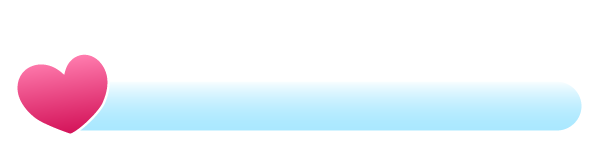
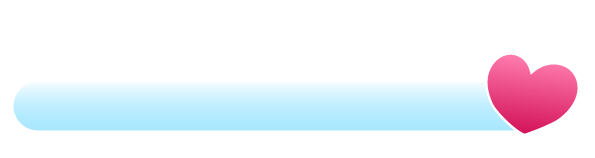
rendering boss bar

Changed region(s): [[0.8168, 0.3291, 0.9983, 0.8608], [0.0, 0.3291, 0.1815, 0.8608]]

diff --git a/scripts/classes/statusbar.class.js b/scripts/classes/statusbar.class.js
@@ -8,6 +8,16 @@ class Statusbar extends DrawableObject {
         './assets/imgs/4. Marcadores/green/Life/20_ copia 4.png',
         './assets/imgs/4. Marcadores/green/Life/0_ copia 3.png'
     ]
+    IMAGES_ENDBOSS = [
+
+        './assets/imgs/4. Marcadores/orange/100_  copia.png',
+        './assets/imgs/4. Marcadores/orange/80_  copia.png',
+        './assets/imgs/4. Marcadores/orange/60_  copia.png',
+        './assets/imgs/4. Marcadores/orange/40_  copia.png',
+        './assets/imgs/4. Marcadores/orange/20_  copia.png',
+        './assets/imgs/4. Marcadores/orange/0_  copia.png'
+
+    ]
     percentage = 100
 
     constructor(x, y, width, height) {
@@ -15,7 +25,9 @@ class Statusbar extends DrawableObject {
         // this.loadImage('./assets/imgs/4. Marcadores/green/100_ copia 5.png')
         // this.loadImage('./assets/imgs/4. Marcadores/green/100_ copia 6.png')
         this.loadImages(this.IMAGES_HP)
+        this.loadImages(this.IMAGES_ENDBOSS)
         this.setPercentage(100)
+        this.setBossPercentage(100)
         this.x = x;
         this.y = y;
         this.width = width;
@@ -26,6 +38,13 @@ class Statusbar extends DrawableObject {
 
         this.percentage = pctg
         let path = this.IMAGES_HP[this.resolveImageIndex()];
+        this.img = this.imgCache[path]; 
+    }
+
+    setBossPercentage(pctg) {
+
+        this.percentage = pctg
+        let path = this.IMAGES_ENDBOSS[this.resolveImageIndex()];
         this.img = this.imgCache[path]; 
     }
 

diff --git a/scripts/classes/world.class.js b/scripts/classes/world.class.js
@@ -7,6 +7,7 @@ class World {
     character = new Character();
     level = level_1;
     statusbar = new Statusbar(50, 20, 200, 60);
+    bossbar = new Statusbar(480, 20, 200, 60)
     bubbles = []
     collectedBottles = 0;
     collectedCoins = 0;
@@ -40,6 +41,7 @@ class World {
         this.ctx.translate(-this.camera_x, 0); // camera forward
         // fixed
         this.renderToCanvas(this.statusbar);
+        this.renderToCanvas(this.bossbar);
         this.drawText(this.collectedBottles, 120, 120);
         this.drawText(this.collectedCoins, 120, 160);
 

diff --git a/index.html b/index.html
@@ -34,7 +34,7 @@
         <h1>Game Over</h1>
         <button id="start" onclick="startGame(), init()">Restart</button>
     </div>
-    <div class="screen ctrls  d-none" id="infobox">
+    <div class="screen ctrls d-none" id="infobox">
         <a onclick="toggleInfoBox()">
             <svg class="pinned" id="Layer_1" enable-background="new 0 0 512 512" height="512" viewBox="0 0 512 512"
                 width="512" xmlns="http://www.w3.org/2000/svg">

diff --git a/style.css b/style.css
@@ -53,6 +53,7 @@ canvas {
 
 a {
     text-decoration: none;
+    color: white;
 }
 
 /* Headlines */
@@ -109,6 +110,7 @@ p {
     gap: 16px;
     display: flex;
     flex-direction: column;
+    justify-content: center;
     color: white;
 }
 
